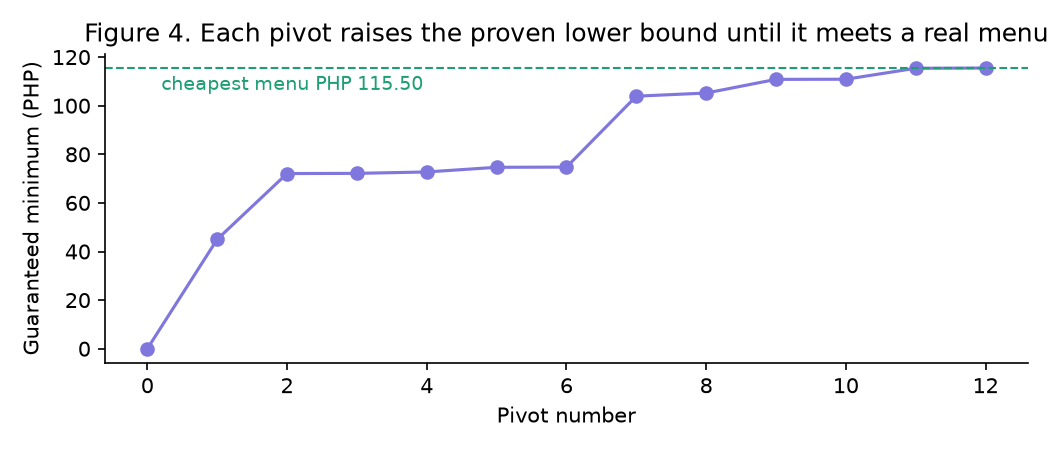
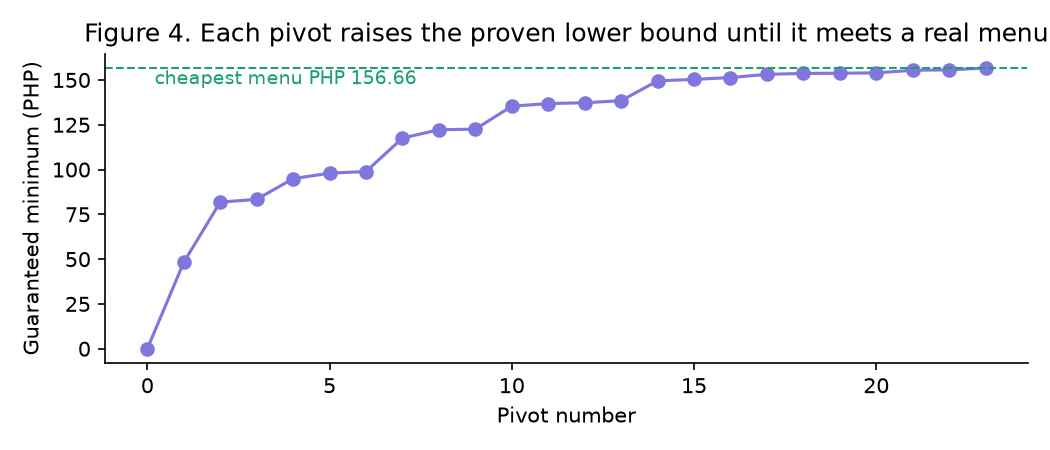
Switched presets to the Philippine Dietary Reference Intakes 2015

diff --git a/diet_optimizer.py b/diet_optimizer.py
@@ -102,14 +102,32 @@ FOODS = [
     ("Instant noodles", "1 pack", 10, 3, PLANT, [270, 6, 11, 38, 1, 20, 1.5, 0, 1000]),
 ]
 
+# Daily requirements from the Philippine Dietary Reference Intakes 2015 (FNRI-DOST).
+# Adults are the 19-29 group and teens are the 16-18 group.
+#   Calories   at least the Recommended Energy Intake (REI)
+#   Protein    at least the Recommended Nutrient Intake (RNI)
+#   Fat, carbs the Acceptable Macronutrient Distribution Range (AMDR), a percent of the REI.
+#              Grams = REI x percent / (9 kcal per g of fat, or 4 kcal per g of carbs)
+#   Fiber      at least the low end of the PDRI range
+#   Calcium, iron, vitamin C   at least the RNI. The PDRI notes that the 28 mg of iron
+#              for women and teen girls "cannot be met by usual diet alone".
+#   Sodium     at least the Adequate Intake of 500 mg, and under 2,000 mg as the PDRI
+#              recommends for adults (from the WHO). We use the same cap for teens.
+def pdri(rei, protein, fat_pct, carb_pct, fiber, calcium, iron, vitamin_c):
+    """Turn one PDRI group's values into (minimum, maximum) pairs in the order of NUTRIENTS."""
+    fat = tuple(round(rei * pct / 100 / 9) for pct in fat_pct)
+    carbs = tuple(round(rei * pct / 100 / 4) for pct in carb_pct)
+    return [(rei, None), (protein, None), fat, carbs, (fiber, None),
+            (calcium, None), (iron, None), (vitamin_c, None), (500, 2000)]
+
+
 # Daily (minimum, maximum) for each nutrient, in the order of NUTRIENTS. None means no limit.
+#                          REI   protein  fat %     carbs %   fiber calcium iron vit C
 PRESETS = {
-    "Adult woman": [(1800, 2300), (50, None), (40, 70), (200, 300), (25, None),
-                    (1000, None), (18, None), (75, None), (None, 2300)],
-    "Adult man":   [(2200, 2800), (60, None), (50, 85), (250, 350), (30, None),
-                    (1000, None), (8, None), (90, None), (None, 2300)],
-    "Teen":        [(2000, 2600), (52, None), (45, 80), (230, 340), (26, None),
-                    (1300, None), (15, None), (65, None), (None, 2300)],
+    "Adult woman": pdri(1930, 62, (15, 30), (55, 75), 20, 750, 28, 60),
+    "Adult man":   pdri(2530, 71, (15, 30), (55, 75), 20, 750, 12, 70),
+    "Teen girl":   pdri(2280, 61, (15, 30), (55, 79), 21, 1000, 28, 60),
+    "Teen boy":    pdri(3010, 72, (15, 30), (55, 79), 21, 1000, 14, 70),
 }
 
 # Which kinds of food each eating style leaves out
@@ -440,7 +458,7 @@ def make_plots(p: Problem, s: Solution, folder="figures"):
     ax.set_yticks(range(len(NUTRIENTS)), [n for n, _ in NUTRIENTS])
     ax.invert_yaxis()
     ax.set_xlabel("Percent of the limit (dashed line = 100%, red tick = maximum)")
-    ax.set_title("Figure 2. Every requirement is met (teal: minimums, purple: maximums)")
+    ax.set_title("Figure 2. Every requirement is met (purple bars are maximum-only limits)", fontsize=10)
     fig.tight_layout(); fig.savefig(f"{folder}/fig2_nutrition.png"); plt.close(fig)
 
     # 3. What drives the cost
@@ -467,14 +485,14 @@ def make_plots(p: Problem, s: Solution, folder="figures"):
 
     # 5. Variety versus cost for each group
     fig, ax = plt.subplots(figsize=(7, 3.2))
-    for preset, color in zip(PRESETS, (teal, purple, coral)):
+    for preset, color in zip(PRESETS, (teal, purple, coral, "#BA7517")):
         caps = range(2, 9)
         costs = [solve_diet(build_problem(preset, "anything", v)).cost for v in caps]
         ax.plot(caps, costs, "o-", color=color, label=preset)
     ax.set_xlabel("Most servings allowed of any one food")
     ax.set_ylabel("Cheapest day (PHP)")
-    ax.set_title("Figure 5. More variety (a lower cap) costs a little more")
-    ax.legend(frameon=False)
+    ax.set_title("Figure 5. More variety (a lower cap) costs more")
+    ax.legend(frameon=False, ncol=2, loc="upper right", fontsize=9)
     fig.tight_layout(); fig.savefig(f"{folder}/fig5_variety.png"); plt.close(fig)
 
     # 6. The 2-food example: the region of valid menus and its corners

diff --git a/diet_gui.py b/diet_gui.py
@@ -67,6 +67,13 @@ Requirement price: how much the daily cost changes if a limit moves by one unit.
 Reduced cost: how much cheaper an unused food would need to be to join the menu.
 Pivot: one move from a corner to a cheaper neighboring corner.
 
+WHERE THE LIMITS COME FROM
+Every group uses the Philippine Dietary Reference Intakes 2015 (FNRI-DOST). Adults are ages 19 to 29 and teens are 16 to 18.
+Calories: at least the Recommended Energy Intake. Protein, calcium, iron and vitamin C: at least the Recommended Nutrient Intake.
+Fat and carbohydrates: the recommended percent of calories, turned into grams.
+Sodium: at least 500 mg and under 2,000 mg.
+The PDRI says the 28 mg of iron for women and teen girls usually needs iron-rich or fortified foods or a supplement. That is why iron drives the cost for those groups.
+
 Amounts like 2.3 cups are fine for the model. Round to the nearest half serving in practice.
 Prices and nutrition values are rough estimates for coursework, not medical advice."""
 
